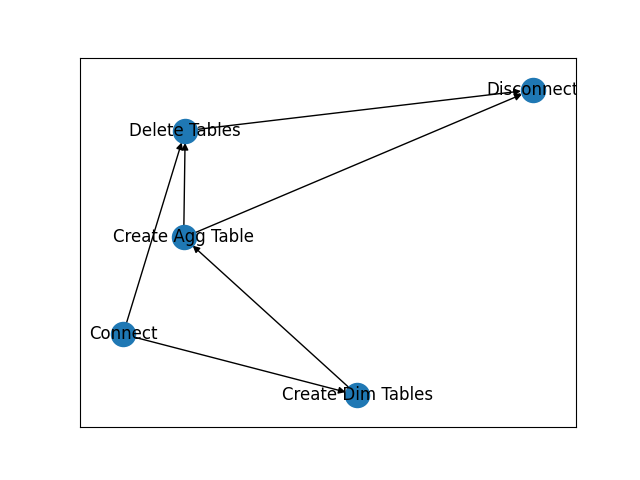
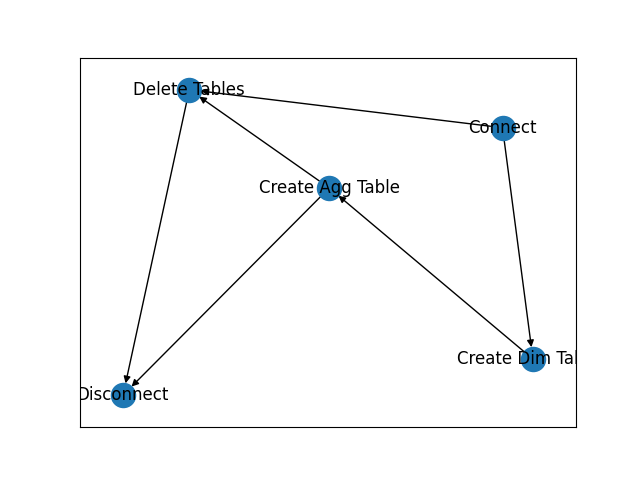
Worker and Scheduler

diff --git a/Nara/main.py b/Nara/main.py
@@ -1,16 +1,23 @@
 import psycopg2
-from queue_module import creation_queue, deletion_queue, full_queue_time
+from queue_module import create_queue
 from tasks import ConcreteTask as Task 
-from dag import visualize_dag1, visualize_dag2, visualize_dag3 
+from dag import visualize_dag
+from worker import execute_queue
+import schedule 
+import time
+import threading
 
 '''
 ================Creating a Connection================
 '''
-
 def create_cursor(): #defines function
-    '''
-    1. Opens a connection.
-    2. Returns cur and conn objects that can be used later.
+    '''Opens a connection.
+    Args: 
+      None, but takes in values from Credentials.txt
+      
+    Returns: 
+      cur object that can be used later for executing SQL querries on the database
+      conn objects that can be used later to commit executed SQL querries to the database 
     '''
     
     credent = [] #creates empty list
@@ -21,11 +28,12 @@ def create_cursor(): #defines function
     conn = psycopg2.connect(host=credent[0],port=credent[1], dbname=credent[2],user=credent[3],password=credent[4]) #using psycopg2 to create a connection
     cur = conn.cursor() #creates cursor on the connection
     print("Connection Established") #prints that the connection is established 
-    return cur, conn #returns cursor and connection objects that can be used later 
-    
+    return cur, conn #returns cursor and connection objects that can be used later   
 '''
 ================Creating a Connection================
 '''
+
+
 
 '''
 ================Runs given SQL statement on Given Connection================
@@ -40,10 +48,11 @@ def run_sql(sql, cur, conn):
     
     cur.execute(sql) #runs the given sql command
     conn.commit() #commits the sql command that was ran. 
-    
 '''
 ================Runs given SQL statement on Given Connection================
 '''
+
+
 
 '''
 ================Iterates Through SQL statements in sql_dimensions.txt file and uses run_sql funct================
@@ -54,7 +63,7 @@ def create_dimension_tables(cur, conn):
       cur (object): cursor object that executes the SQL statement
       conn (object): connection object that commits the executed SQL statement
     
-    The function will execute all statements in the sql_dimensions.txt file
+    The function will execute all statements in the sql_dimensions.txt file per line
   '''
   with open('Nara/sql_dimensions.txt') as file: #open the txt file that has a sql statement in every line
     for line in file: #for each line in the file 
@@ -63,6 +72,8 @@ def create_dimension_tables(cur, conn):
 '''
 ================Iterates Through SQL statements in sql_dimensions.txt file and uses run_sql funct================
 '''
+
+
 
 '''
 ================Iterates Through SQL statements in sql_aggregate.txt file and uses run_sql funct================
@@ -82,7 +93,9 @@ def create_aggregated_table(cur, conn):
 '''
 ================Iterates Through SQL statements in sql_aggregate.txt file and uses run_sql funct================
 '''
-          
+
+
+
 '''
 ================Iterates Through SQL statements in sql_breakdown_tables.txt file and uses run_sql funct================
 '''
@@ -102,6 +115,10 @@ def breakdown_tables(cur, conn):
 '''
 ================Iterates Through SQL statements in sql_breakdown_tables.txt file and uses run_sql funct================
 '''
+
+
+
+
 '''
 ================Close Connection================
 '''
@@ -118,6 +135,9 @@ def close_connection(cur, conn): #calling this function closes the connection
 ================Close Connection================
 ''' 
 
+
+
+
 '''
 ================Assigning Tasks================
 '''
@@ -128,30 +148,67 @@ create_dim = Task(create_dimension_tables)
 create_agg = Task(create_aggregated_table) 
 breakdown = Task(breakdown_tables)
 close_conn = Task(close_connection)
+
+""" 
+This just shows how the tasks could be ran if queue, worker, and scheduler were not created. 
+ 
+cur, conn = create_conn.run() 
+create_dim.run(cur, conn)
+create_agg.run(cur, conn)
+#breakdown.run(cur, conn)
+close_conn.run(cur, conn) 
+"""
+
 '''
 ================Assigning Tasks================
 '''
+
+
+
 '''
 ================Creating Queues================
 '''
-create_queue = creation_queue() 
-delete_queue = deletion_queue()
-full_queue = full_queue_time(30)
+#Calls on the creqte_queue function from the queue module. 
+instanciate_queue = create_queue(create_conn,create_dim,create_agg,close_conn)
+breakdown_queue = create_queue(create_conn,breakdown,close_conn)
+complete_queue = create_queue(create_conn,create_dim,create_agg,breakdown,close_conn) 
+complete_queue_seconds = create_queue(create_conn,create_dim,create_agg,10,breakdown,close_conn)
 '''
 ================Creating Queues================
 '''
 
+
+
+'''
+================Creating a Schedule================
+'''
+
+#The following 2 lines ensure that every day all tables get created at 9:00am, and they get broken down at 5:00pm
+schedule.every().day.at("09:00").do(execute_queue, instanciate_queue)
+schedule.every().day.at("17:00").do(execute_queue, breakdown_queue)
+
+def nine_to_five():
+  while True:
+      schedule.run_pending()
+      time.sleep(1)
+      
+def concurent():
+  time.sleep(40)
+  print("This print task happens separate from execution of creation and breakdown of tables.")
+
+t1 = threading.Thread(target=nine_to_five)
+
+t2 = threading.Thread(target=concurent)
+
+'''
+================Creating a Schedule================
+'''
+
+
 def main() -> None: 
-  print (close_connection.__doc__)
-  
-  
-  
-  """cur, conn = create_conn.run()
-  create_dim.run(cur, conn)
-  create_agg.run(cur, conn)
-  #breakdown.run(cur, conn)
-  close_conn.run(cur, conn)"""
-  
+  t1.start() #runs first thread that runs the schedule nine_to_five 
+  t2.start() #runs second thread that has the concurent function in it 
+
   
   
 if __name__ == "__main__": 

diff --git a/Nara/dag.py b/Nara/dag.py
@@ -1,15 +1,8 @@
 import networkx as nx 
 from matplotlib import pyplot as plt
 
-creation_graph = nx.DiGraph() #creates an empty DiGraph object
-deletion_graph = nx.DiGraph() #creates an empty DiGraph object
 entire_graph = nx.DiGraph() #creates an empty DiGraph object
 
-#By adding edges, the nodes are added as well. 
-#There are 2 different activities - creating tables or deleting tables that one can do with the project. 
-
-creation_graph.add_edges_from([("Connect","Create Dim Tables"),("Create Dim Tables","Create Agg Table"),("Create Agg Table","Disconnect")]) 
-deletion_graph.add_edges_from([("Connect","Delete Tables"),("Delete Tables","Disconnect")])
 entire_graph.add_edges_from([("Connect","Create Dim Tables"),("Create Agg Table","Delete Tables"),("Create Dim Tables","Create Agg Table"),("Create Agg Table","Disconnect"),("Connect","Delete Tables"),("Delete Tables","Disconnect")])
 
 def visualize_dag(nodes_and_edges,name): #function that creates dag visualization
@@ -22,7 +15,5 @@ def visualize_dag(nodes_and_edges,name): #function that creates dag visualizatio
     nx.draw_networkx(nodes_and_edges, arrows = True, with_labels = True)
     plt.savefig(f'DAGs/{name}.png', format="png")
     plt.clf()
-    
-visualize_dag(creation_graph, "creation_dag") #creates creation dag
-visualize_dag(deletion_graph, "deletion_dag") #creates deletion dag
+
 visualize_dag(entire_graph, "entire_dag") #creates entire dag

diff --git a/Nara/queue_module.py b/Nara/queue_module.py
@@ -1,17 +1,30 @@
 from collections import deque
 
 
-def creation_queue():  
+def create_queue(*args): 
+    '''Creates a queue from given tasks
+    Args: 
+      *args: can be tasks or int values 
+    
+    Returns:
+      create_stack: dequeu object containing the list of tasks (and ints for pauses) that needs to be completed. 
+    '''
     
     create_stack = deque() #creates an empty deque
-    create_stack.appendleft("close_conn") #adds last task to be completed first
-    create_stack.appendleft("create_agg") 
-    create_stack.appendleft("create_dim")
-    create_stack.appendleft("create_conn") #adds tasks until the first one to be executed
+    list_of_arguments = list() #instanciates an empty list
     
-    return create_stack
+    for j in args: #appends each argument in order to the list
+        list_of_arguments.append(j)
+    
+    list_of_arguments.reverse() #reverses the list
+    
+    for i in list_of_arguments: #appendsleft every item in the queue so they're in proper order. 
+        create_stack.appendleft(i)
+    
+    return create_stack #returns the created stack. 
 
-def deletion_queue(): 
+
+'''def deletion_queue(): 
     
     delete_stack = deque()
     delete_stack.appendleft("close_conn")
@@ -32,3 +45,4 @@ def full_queue_time(x:int):
     
     return full_stack
     
+'''

diff --git a/Nara/worker.py b/Nara/worker.py
@@ -1,0 +1,29 @@
+#worker / executer is the same function in this project so I am naming it execute_queue()
+
+from collections import deque
+import time
+
+
+def execute_queue(queue): 
+    '''Executes a queue given to the function
+    Args: 
+      queue: a queue that contains tasks (or maybe an int for pause time) 
+    '''
+    counter = 0 #set the counter at 0 so we can know first time through the for loop that we are on the first task
+    #this is done because the first task needs to be connection, and that task gives us the cur and conn object
+    #that all the other tasks need to use
+    
+    
+    for task in queue: 
+        if type(task) == int: #if type of task is int, we pause the queue for that many seconds
+            #for minutes we can multiply by 60, and so on. 
+            print(f'Queue paused for {task} seconds')
+            time.sleep(task)
+            
+        else: 
+            if counter == 0: #if it is the first task, we need to save the cur and conn objects and run without inputs
+                cur, conn = task.run()
+                counter = counter + 1
+            else: 
+                task.run(cur,conn) #if it is not the first task we need to use the cur and conn objects as inputs. No output is needed per task. 
+                counter = counter + 1
